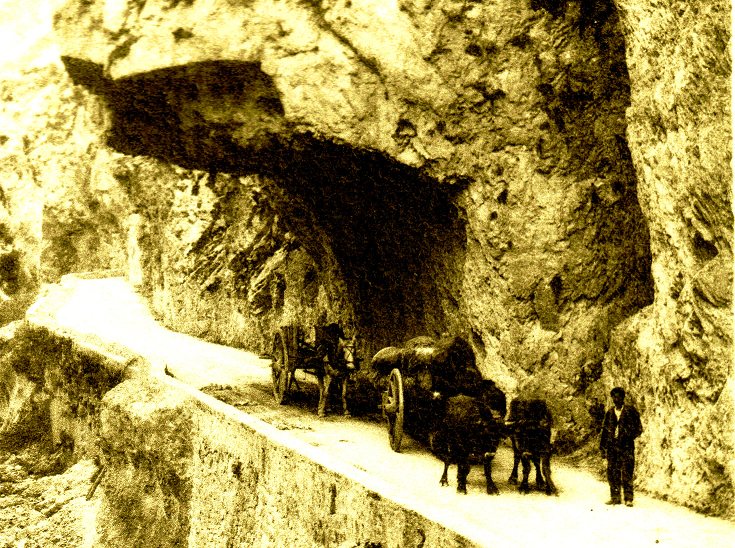
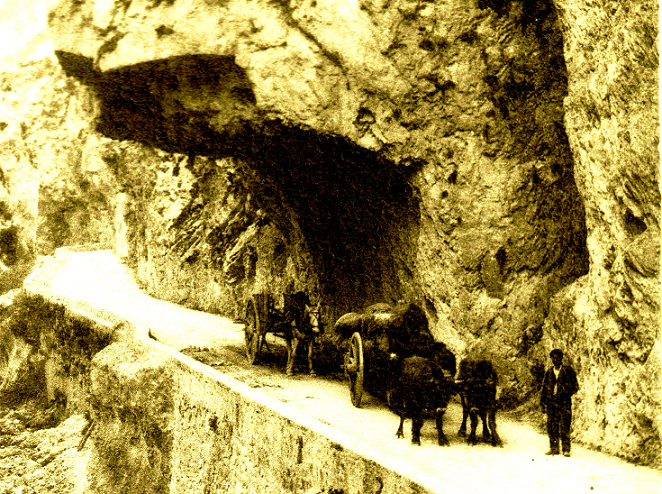
nouvelle copie pierre-lys

Changed region(s): [[0.0302, 0.9413, 0.0906, 1.0], [0.0, 0.9413, 0.0302, 0.9717], [0.0, 0.8806, 0.0302, 0.9109]]

diff --git a/pierre-lys/pierre-lys.html b/pierre-lys/pierre-lys.html
@@ -30,7 +30,7 @@
       <img id="pierlysmelling" src="images/gravure%20de%20Melling.JPG" alt="St Martin Lys, trou du curé gravure de Melling" width="761" height="550"> 
       <p class="Legende-image">dessin<sup>5</sup> et gravures <sup>6</sup> de Antoine-Ignace Melling (1825)<br>Premier dessin connus du trou du curé</p>
       <p>Le reste de la traversée se fait en suivant l'Aude, mais sans passer par d'autres tunnels, même si le passage a dû être creusé à flanc de montagne ou parfois pris sur le lit du fleuve.</p>
-      <img id="pierre1884" src="images/passage%20gorges1884.jpg" alt="St Martin Lys, attelage traversant les gorges avant 1884" width="735" height="548"> 
+      <img id="pierre1884" src="images/passage%20gorges1884.jpg" alt="St Martin Lys, attelage traversant les gorges avant 1884" width="662" height="494"> 
       <p class="Legende-image">Attelage traversant les gorges de la Pierre-Lys<br>Je ne fais qu'imaginer comment 2 attelages de ce type auraient pu se croiser<br>Photo Cochet (réalisée avant l'élargissement de la route de 1877 ?), transmise par Jean Lautier</p>
       <p>L'exploit qu'a représenté le percement initial des gorges par les seuls habitants de St Martin reste difficile à imaginer aujourd'hui avec nos moyens modernes. C'est pourquoi aujourd'hui nous oublions Félix Armand, celui qui a su mobiliser les énergies de tout ce village et qui a permis par là de désenclaver toute la région de la haute-vallée. Quarante années de travaux à partir de 1775, rarement continues, surtout réalisés à la morte saison, car il fallait d'abord s'occuper de la nourriture de subsistance.<br>
       Pourquoi, alors qu'aujourd'hui, ce passage nous parait évident, a-t-il fallu que les habitants du village prennent seuls en main ces travaux titanesques pour leurs pauvres moyens (quelques pioches qui s'usaient trop vites, quelques barres à mine trop faciles à tordre et quelques litres de poudre noire à canon qu'il fallait payer à prix d'or par rapport aux moyens de ces paysans).<br>
